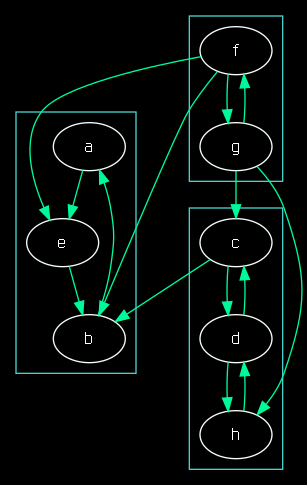
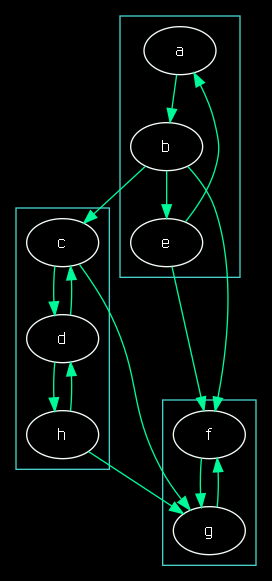
Fix DOT output arrow direction.
Effectively, arrows should flow down into later groups, except
within SCCs.

Closes #3.

diff --git a/src/main.c b/src/main.c
@@ -149,7 +149,7 @@ static void print_cb(uint32_t group_id,
 
             for (size_t s_i = 0; s_i < succ_count; s_i++) {
                 const uint32_t edge_id = successors[s_i];
-                printf("%sn%u -> n%u\n", indent, edge_id, root_id);
+                printf("%sn%u -> n%u\n", indent, root_id, edge_id);
             }
         }
 

diff --git a/README.md b/README.md
@@ -6,7 +6,7 @@ This analyzes a directed graph and yields the graph's nodes in
 reverse-topologically sorted order, grouped into strongly connected
 components. In other words, it groups nodes together that refer to
 each other with cycle(s), and orders the groups so that every group
-only refers to nodes appearing in earlier groups.
+only refers to nodes appearing in later groups.
 
 For a nice overview of the algorithm, see Vaibhav Sagar's
 ["An All-in-One DAG Toolkit"][1] post.

diff --git a/CHANGELOG.md b/CHANGELOG.md
@@ -1,5 +1,12 @@
 # hopscotch Changes By Release
 
+## v0.1.1 - 2018-08-14
+
+### Bug Fixes
+
+Corrected the DOT output's arrow direction. (#3)
+
+
 ## v0.1.0 - 2018-08-12
 
 Initial public release of project.
